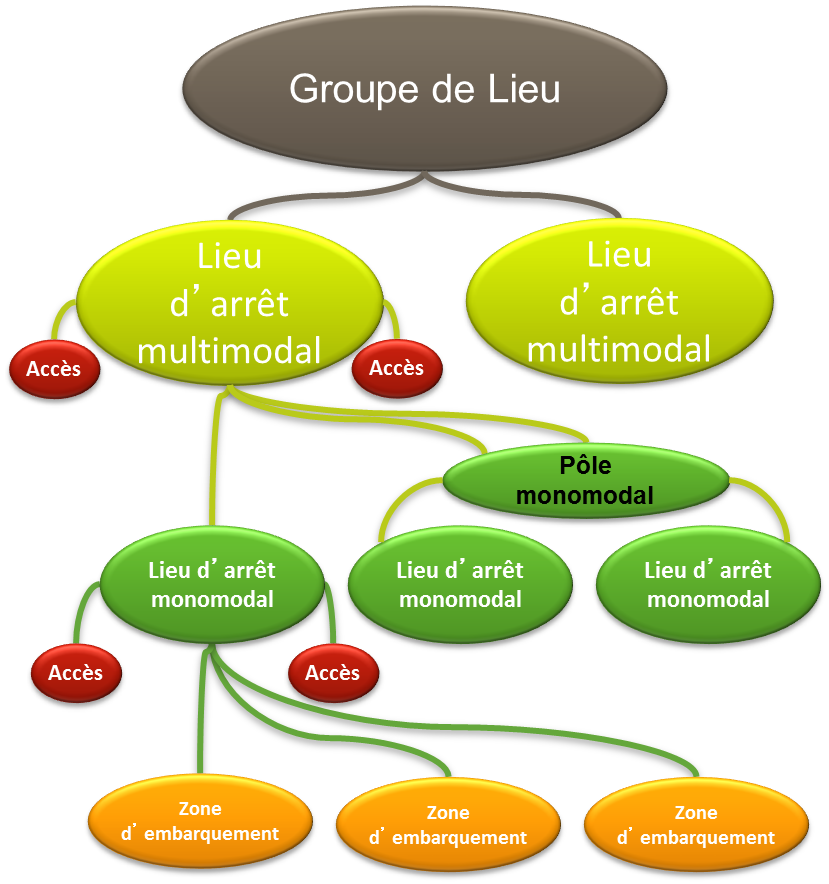
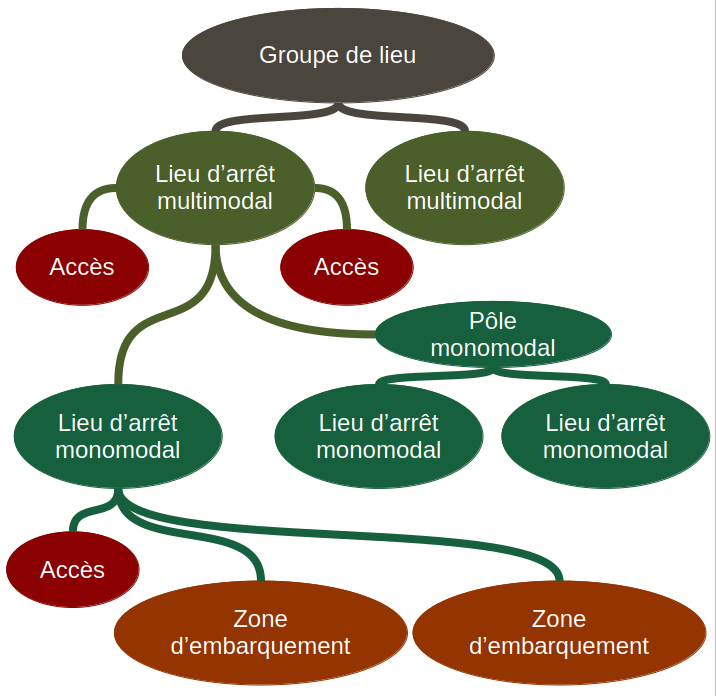
accessibilité numérique - images illustratives

diff --git a/NeTEx/arrets/index.md b/NeTEx/arrets/index.md
@@ -610,7 +610,7 @@ La structure proposée est représentée par la figure ci-dessous. C'est
 une structure d'imbrication hiérarchique forte, qui s'appuie sur une
 base modale.
 
-![image](media/image1.png)
+![Structuration de l'arrêt en 4 niveaux : le groupe de lieu, le lieu d'arrêt multimodal, le pôle monomodal ou le lieu d'arrêt monomodal (aussi appelé l'arrêt commercial), et la zone d'embarquement.](media/image1.png)
 *Structuration des arrêts*
 
 Le typage proposé de chaque niveau (voir les définitions) est
@@ -633,28 +633,19 @@ acteurs.
 
 Quatre niveaux hiérarchiques d’arrêt sont disponibles :
 
--   Groupe de Lieux
-
-
-
--   Lieu d’arrêt multimodal
-
-
-
--   Lieu d’arrêt monomodal et pôle monomodal
-
-
-
--   Zone d’embarquement (Quai de train, voie à quai, poteau de Bus, de
+- Groupe de Lieu
+- Lieu d’arrêt multimodal
+- Lieu d’arrêt monomodal et pôle monomodal
+- Zone d’embarquement (Quai de train, voie à quai, poteau de Bus, de
     Tram …. )
 
 La figure ci-dessous fournit une vue arborescente de cette
 structuration, et y fait de plus apparaître la notion d'accès.
 
-![image](media/image2.png)
+![Le groupe de lieu contient des lieux d'arrêts multimodaux. Le lieu d'arrêt multimodal peut contenir des accès, des lieux d'arrêts monomodaux et des pôles monomodaux. Le Pôle monomodal peut contenir des lieux d'arrêts monomodaux. Le lieu d'arrêt monomodal peut contenir des accès et des zones d'embarquement.](media/image2.png)
 *Structuration des arrêts: vue hiérarchique complète*
 
-L'accès de lieux peut être rattaché uniquement aux Lieux d’arrêt
+L'accès de lieu peut être rattaché uniquement aux Lieux d’arrêt
 monomodaux ou aux Lieux d’arrêt multimodaux (voir sa définition
 ci-dessous).
 

diff --git a/NeTEx/accessibilite/index.md b/NeTEx/accessibilite/index.md
@@ -1860,8 +1860,8 @@ partager des SEQUENCES DE TRONÇONS entre plusieurs CHEMINEMENTs).
 
 La figure ci-dessous en donne une illustration.
 
-![image](media/image13.png)
-*vue schématiques des CHEMINEMENTs*
+![Le CHEMINEMENT est constitué de SÉQUENCEs DE TRONÇONS. Une SÉQUENCE DE TRONÇONS est constituée de plusieurs PATH LINKs, qui commencent et se terminent sur des EXTRÉMITÉS DE TRONÇONS.](media/image13.png)
+*vue schématique des CHEMINEMENTs*
 
 Le schéma UML ci-dessous décrit la structure des cheminements dans NeTEx
 (et Transmodel).
@@ -3499,7 +3499,7 @@ Remarque : <span class="hl">plusieurs modélisations sont possibles pour les asc
 
 exemple :
 
-![schéma présentant une coupe d'un ascenseur, avec 3 SitePathLink dessinés](media/image19.png)
+![Schéma présentant une coupe d'un ascenseur desservant 2 étages : 3 tronçons de cheminements sont dessinés, l'un représente le trajet vertical de l'ascenseur, les deux autres sont les cheminements à chaque étage pour entrer et sortir de l'ascenseur.](media/image19.png)
 
 - l'équipement de l'ascenseur :
 
@@ -4288,7 +4288,7 @@ Remarque : ces définitions sont également valables pour les lignes de transpor
 
 L'espace de manœuvre (ou aire de rotation) désigne à un espace situé juste devant la porte, permettant de la manœuvrer correctement et de faire demi-tour en fauteuil roulant afin de l'emprunter. Un diamètre d'1,50 m est attendu et on peut en retrouver de chaque côté de la porte (attribut **TurningSpacePosition**).
 
-![Diamètre de giration](./media/image18.jpg)
+![Croquis d'une vue de haut d'un fauteuil roulant qui tourne sur lui-même : un diamètre de 1,50m est nécessaire pour effectuer un tour complet.](./media/image18.jpg)
 
 
 # Bibliographie

diff --git a/NeTEx/elements_communs/index.md b/NeTEx/elements_communs/index.md
@@ -2318,8 +2318,17 @@ date proposé par le mécanisme de référence de NeTEx.
 La liste des modes utilisés est la suivante (version anglaise d'origine
 et traduction):
 
-![image](media/image3-1.png)
-*Modes*
+- <span lang="en">*air*</span> : aérien
+- <span lang="en">*bus*</span> : bus
+- <span lang="en">*coach*</span> : car
+- <span lang="en">*funicular*</span> : funiculaire
+- <span lang="en">*metro*</span> : métro
+- <span lang="en">*rail*</span> : ferré
+- <span lang="en">*trolleyBus*</span> : trolley
+- <span lang="en">*tram*</span> : tramway
+- <span lang="en">*water*</span> : maritime ou fluvial
+- <span lang="en">*cableway*</span> : transport par câble (télécabine, téléphérique, etc.)
+- <span lang="en">*other*</span> : autre, non utilisé dans le cadre du profil français
 
 ### Les sous modes
 
@@ -2329,7 +2338,7 @@ d'exploitation qui est mis en place (navette, train régional, etc.). La
 figure ci-dessous présente l'ensemble des modes normalisés.
 
 ![image](media/image4.png)
-*Sous modes*
+*Sous-modes*
 
 Par souci de clarté, les sous-modes ont été classés en relation avec un
 mode, toutefois le sous-mode "***tramTrain***" peut être utilisé

diff --git a/NeTEx/tarifs/index.md b/NeTEx/tarifs/index.md
@@ -5920,7 +5920,7 @@ grille tarifaire (***FareTable***) à une note (***Notice***) et à
 l’information sur la réduction correspondant (via un ***FarePrice***),
 ici de 30%.
 
-![](media/image26.png) *Exemple de tarif particulier pouvant justifier
+![Extrait d'une brochure tarifaire présentant un tarif entreprise : pour les salariés, les agents des administrations et les autres professionnels, sur des voyages réguliers ou occasionnels, 30% de réduction à l'achat d'un carnet de 10 billets, valable dans les deux sens.](media/image26.png) *Exemple de tarif particulier pouvant justifier
 l’usage d’une note pour le simplifier*
 
 <span class="mark">Autre élément important dans le cadre de ce profil :
